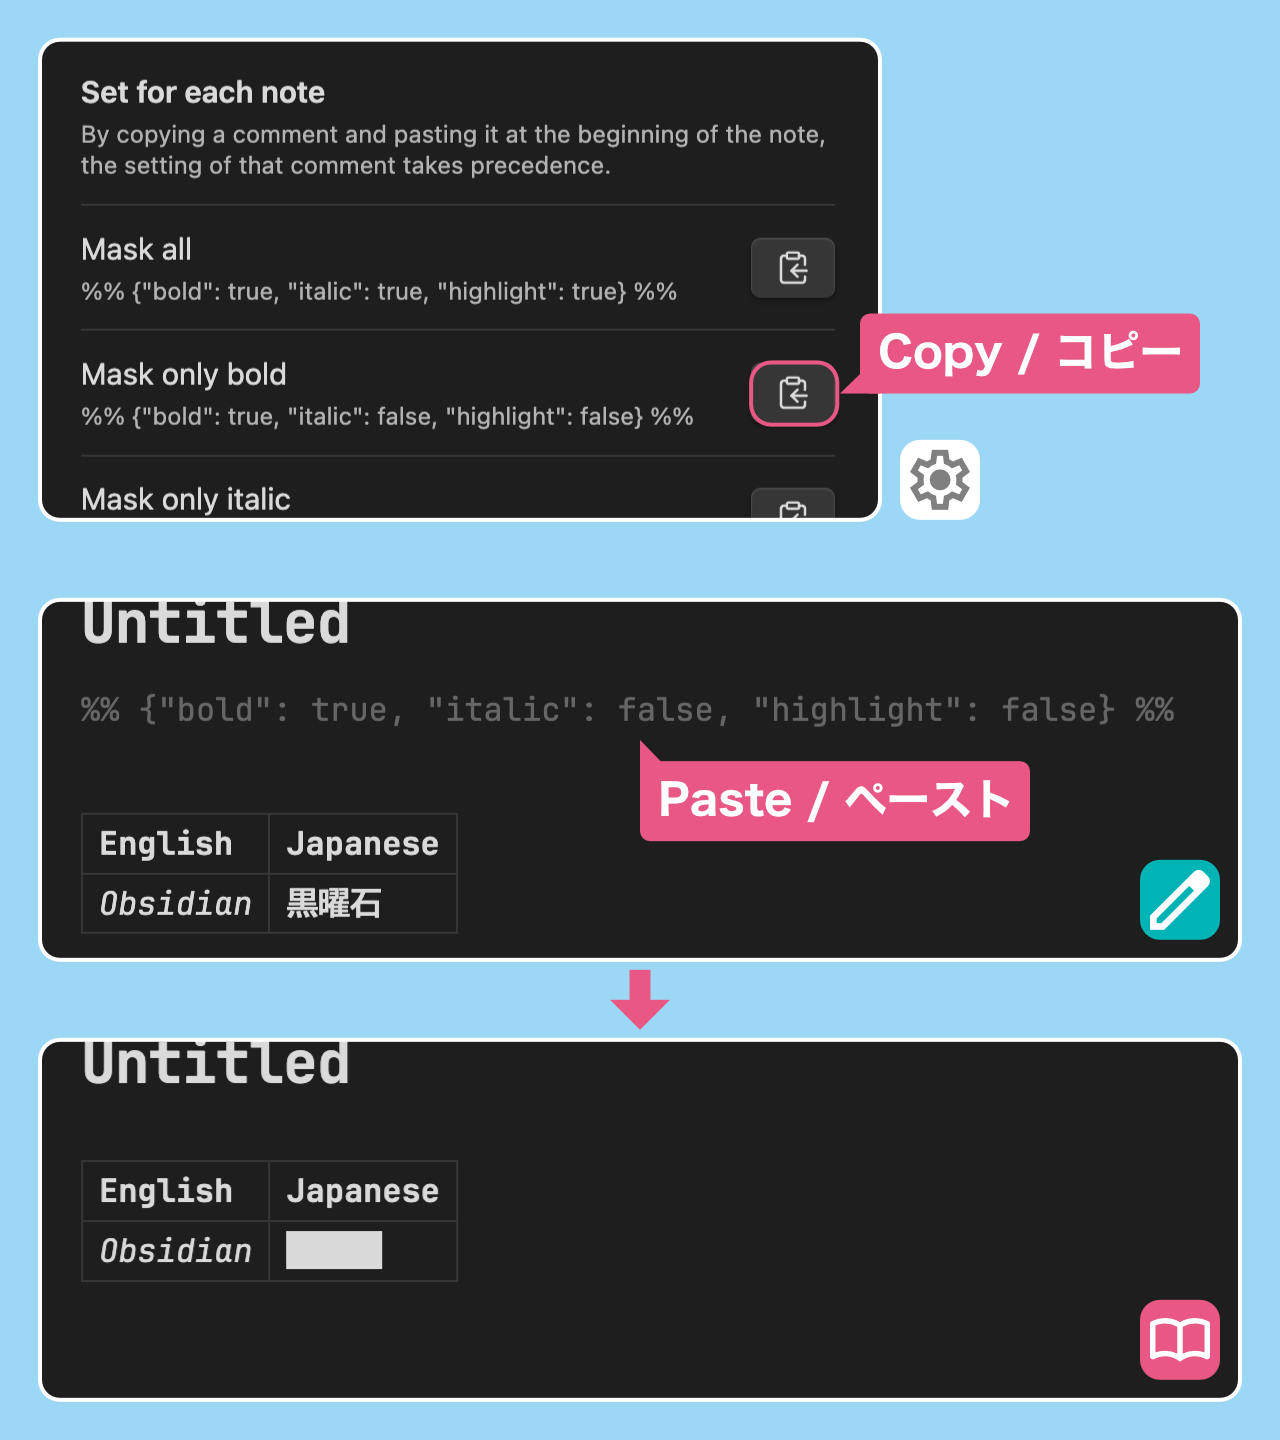
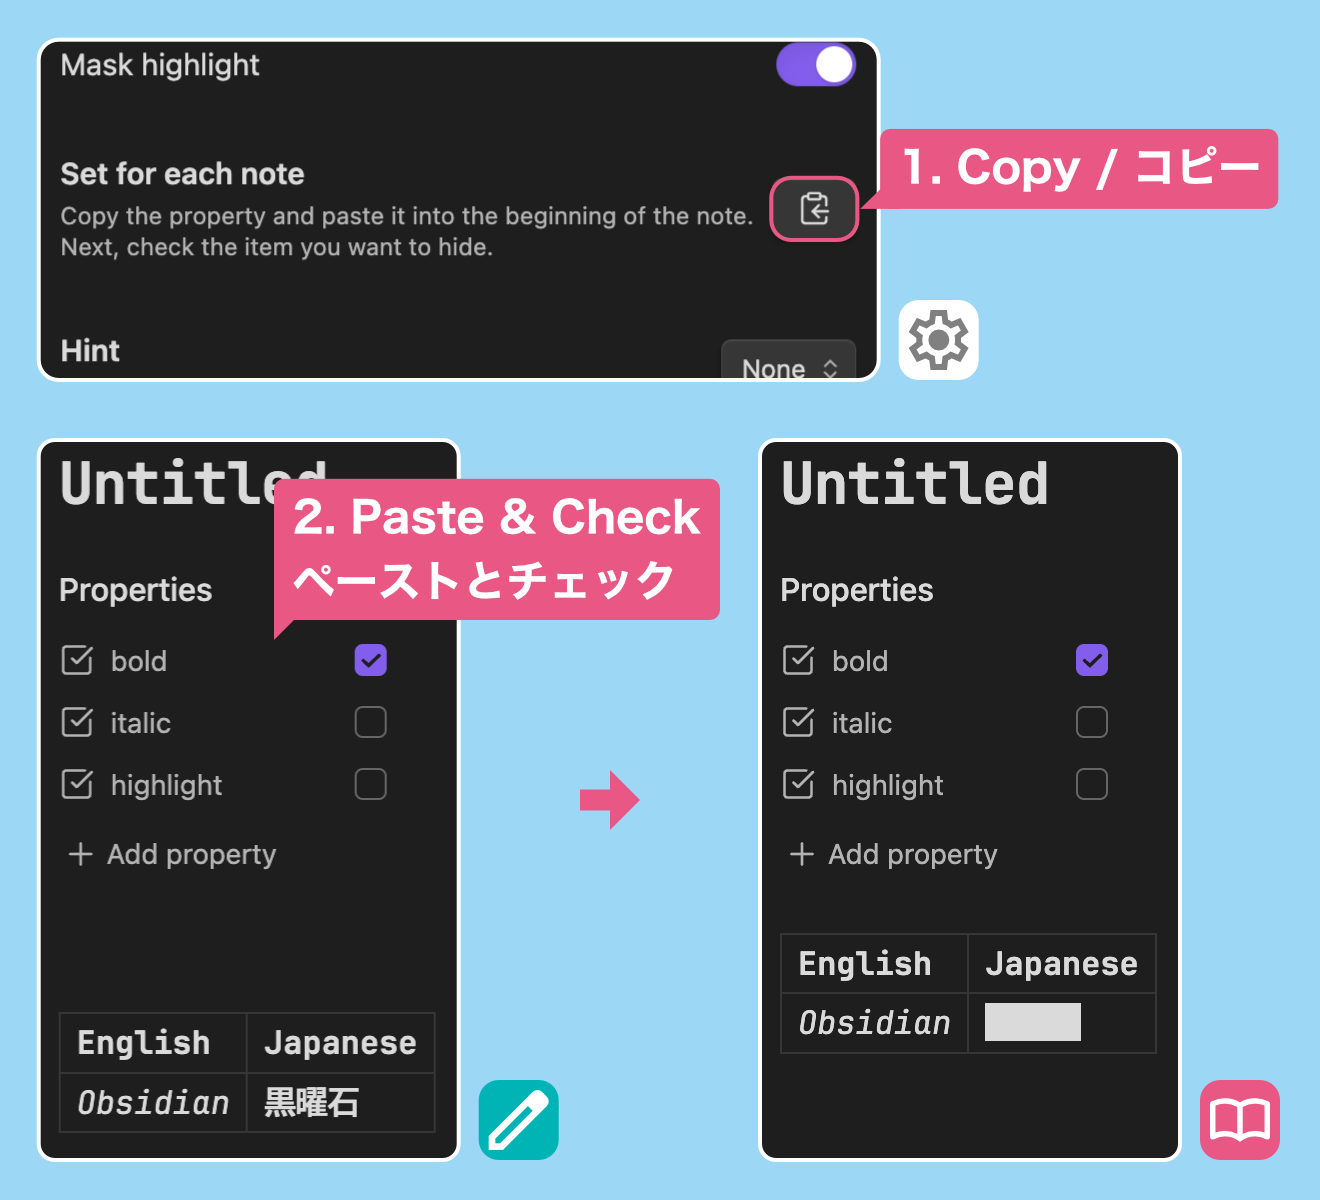
Update README.md

diff --git a/README.md b/README.md
@@ -24,9 +24,11 @@ Items that are turned on in the settings are filled in.
 
 ## Set for each note / ノートごとに設定する
 
-If you copy a comment from the settings and paste it at the beginning of the note, the settings for that comment take precedence.
+Copy the property from the settings and paste it into the beginning of the note.  
+Next, check the item you want to hide.
 
-設定からコメントをコピーし、ノートの先頭にペーストすることで、そのコメントの設定が優先されます
+設定からプロパティをコピーし、ノートの先頭にペーストします  
+次に、隠したい項目にチェックを付けてください
 
 ![demo](readmeAssets/demo02.png)
 
